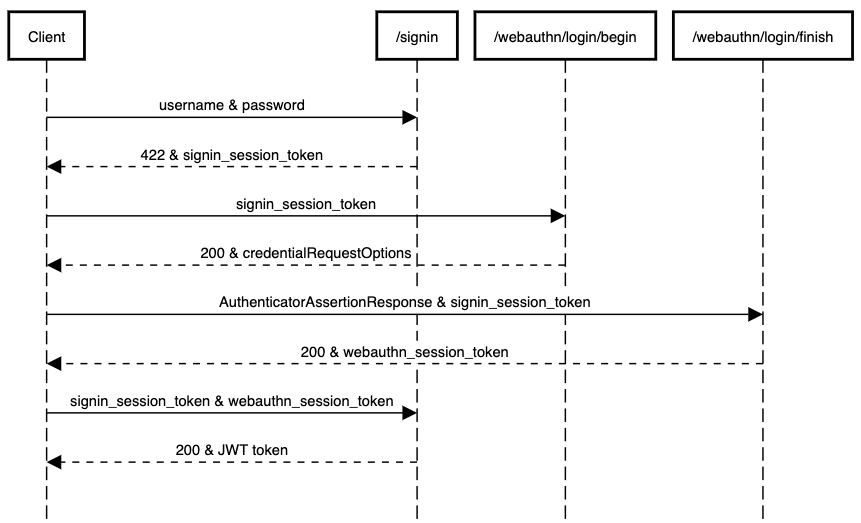
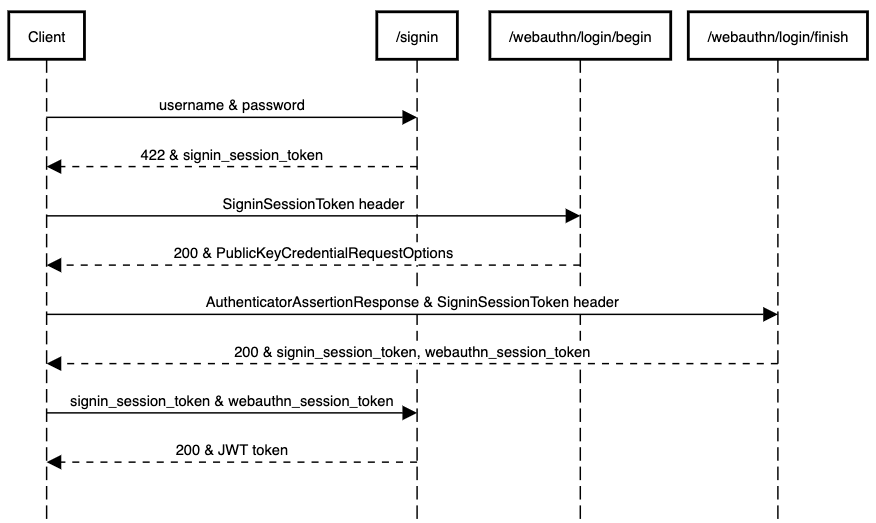
updating documentation

diff --git a/accounts/config/environment.js b/accounts/config/environment.js
@@ -25,7 +25,7 @@ module.exports = function(environment) {
 
   ENV['ember-simple-auth-token'] = {
     serverTokenEndpoint: '/signin',
-    serverTokenRefreshEndpoint: '//refresh',
+    serverTokenRefreshEndpoint: '/refresh',
     tokenPropertyName: 'token', // Key in server response that contains the access token
     headers: {}, // Headers to add to the
     // tokenExpirationInvalidateSession: true, // Enables session invalidation on token expiration
@@ -52,7 +52,7 @@ module.exports = function(environment) {
     // ENV.APP.LOG_VIEW_LOOKUPS = true;
 
     ENV['ember-simple-auth-token'].serverTokenEndpoint = 'http://localhost:8080/signin'
-    ENV['ember-simple-auth-token'].serverTokenRefreshEndpoint = 'http://localhost:8080//refresh'
+    ENV['ember-simple-auth-token'].serverTokenRefreshEndpoint = 'http://localhost:8080/refresh'
     ENV.APP.JSONAPIAdaptetHost = 'http://localhost:8080';
   }
 

diff --git a/accounts/app/services/rest-service.js b/accounts/app/services/rest-service.js
@@ -16,7 +16,7 @@ export default Service.extend({
     if (signin_session_token) {
       settings.headers = {
         'Content-Type': 'application/json',
-        'AuthToken': signin_session_token  // custom header for sending password login auth token
+        'SignInSessionToken': signin_session_token  // custom header for sending password login auth token
       }
     } else {
       settings.headers = {

diff --git a/api/internal/handlers/user.go b/api/internal/handlers/user.go
@@ -186,9 +186,9 @@ func (ah AuthEventHandler) FinishSecondAuth(userID, eventName, message string) {
 	})
 }
 
-func (ah AuthEventHandler) IsWebAuthnAuthTokenValidForUer(userID, webauthnAuthToken string) bool {
+func (ah AuthEventHandler) IsWebAuthnSessionTokenValidForUer(userID, webAuthnSessionToken string) bool {
 	userService := ah.UserService
-	eventID, _ := crypto.Base64Decode(webauthnAuthToken)
+	eventID, _ := crypto.Base64Decode(webAuthnSessionToken)
 	user, dberr := userService.FindUserByAuthEventID(eventID)
 	if dberr != nil {
 		return false
@@ -253,10 +253,13 @@ func getAuthType(c Credentials) AuthType {
 //   **Password + WebAuthn**
 //
 //   This is two factor authentication. User's security settings must have WebAuthn enabled in order for this second
-//   factor authentication to be presented to the user after a successful password authentication. Testing the WebAuthn
-//   is a lot more involved. The webauthn endpoint is tested using the browser with webauthn client javascript calls
-//   that are embedded in UI. Professional API testing tool can be used if it calls browser API natively. This part of
-//   API endpoint is mentioned for the sake of completeness.
+//   factor authentication to be presented to the user after a successful password authentication. Calling WebAuthn
+//   endpoint requires working with browser's <a href="https://developer.mozilla.org/en-US/docs/Web/API/Web_Authentication_API">**WebAuthn API**</a>
+//   That brings a bit of challenge to automated testing. Testing tool can not simply pass in some value to this restful
+//   service endpoint. The tool needs to call browser's WebAuthn API to have the browser initiate a communication
+//   with the user's physical authenticator device. Although it is theoretically possible to emulate the physical authenticator
+//   using <a href="https://github.com/github/SoftU2F/">**software**</a>, there isn't a software authenticator that is suitable
+//   for fully automated testing. Therefore, testing of WebAuthn flow will remain as manual.
 //
 //   <img src="/accounts/assets/webauthn_flow.png" alt="WebAuthn Flow">
 //
@@ -276,7 +279,7 @@ func getAuthType(c Credentials) AuthType {
 //     description: access granted
 //     schema:
 //       type: object
-//       "$ref": "#/definitions/AuthToken"
+//       "$ref": "#/definitions/JWTToken"
 //   '401':
 //     description: access denied
 //     schema:
@@ -309,14 +312,23 @@ func getAuthType(c Credentials) AuthType {
 //           example: MzM4OGNkMWEtNmQyNC00MDQ1LWJmYzctMWJlMzM3ZTk1NDQ5
 // security: []
 // x-codeSamples:
-//   - lang: curl
+//   - lang: curl-password
 //     source: |
 //       curl -X POST \
 //       https://accounts.7onetella.net/signin \
 //       -H 'Content-Type: application/json' \
 //       -d '{
-//	       "username": "user_1604820478030@example.com",
-//	       "password": "password"
+//	       "username": "john.smith@example.com",
+//	       "password": "password1234"
+//       }'
+//   - lang: curl-totp
+//     source: |
+//       curl -X POST \
+//       https://accounts.7onetella.net/signin \
+//       -H 'Content-Type: application/json' \
+//       -d '{
+//         "signin_session_token": "YjcxYmE0MjQtMGY1MS00ZDI0LTk4NDAtYjhiM2IwNzY5ZDNk",
+//         "totp": "592918"
 //       }'
 func Signin(userService UserService, claimKey string, ttl time.Duration) gin.HandlerFunc {
 	return func(c *gin.Context) {
@@ -389,7 +401,7 @@ func Signin(userService UserService, claimKey string, ttl time.Duration) gin.Han
 				auth.AccessDeniedMissingData(user.ID, AuthenticationError, WebAuthnRequired)
 				return
 			}
-			if !auth.IsWebAuthnAuthTokenValidForUer(user.ID, cred.WebauthnAuthToken) {
+			if !auth.IsWebAuthnSessionTokenValidForUer(user.ID, cred.WebAuthnSessionToken) {
 				auth.DenyAccessForUser(user.ID, AuthenticationError, WebauthnAuthFailure)
 				return
 			}
@@ -423,7 +435,7 @@ func Signin(userService UserService, claimKey string, ttl time.Duration) gin.Han
 			return
 		}
 
-		token := AuthToken{
+		token := JWTToken{
 			Token:      tokenString,
 			Expiration: expTime.Unix(),
 		}

diff --git a/api/internal/handlers/jwt.go b/api/internal/handlers/jwt.go
@@ -40,7 +40,7 @@ type Credentials struct {
 
 	TOTP string `json:"totp"`
 
-	WebauthnAuthToken string `json:"webauthn_session_token"`
+	WebAuthnSessionToken string `json:"webauthn_session_token"`
 }
 
 // password_credentials represents user password credentials
@@ -94,13 +94,13 @@ type WebauthnCredentials struct {
 	//
 	// required: true
 	// example: ZDkyZjJkNWMtNGU2Ny00ZGRmLWI2ZGQtOTExNTcyYzIwNWFk
-	WebauthnAuthToken string `json:"webauthn_session_token"`
+	WebauthnSessionToken string `json:"webauthn_session_token"`
 }
 
 // This is JWT Auth Token
 //
-// swagger:model AuthToken
-type AuthToken struct {
+// swagger:model JWTToken
+type JWTToken struct {
 	// jwt token
 	// required: true
 	// example: eyJhbGciOiJIUzI1NiIsInR5cCI6IkpXVCJ9.eyJhdWQiOiI3b25ldGVsbGEiLCJleHAiOjE2MDQ1NTYyMjcsImlhdCI6MTYwNDU1MjYyNywiaXNzIjoiN29uZXRlbGxhIiwic3ViIjoiMDA1ZDBiYzMtN2NmYi00NzkxLTg0ZDktZjFkN2IzMmJiM2YxIn0.kY5BpagojMbkn0T2vnEXYeQ_bRMriDmW6iEG3D7GQQI
@@ -129,7 +129,7 @@ func (c Credentials) IsTOTPCodePresent() bool {
 }
 
 func (c Credentials) IsWebauthnTokenPresent() bool {
-	return len(c.WebauthnAuthToken) > 0
+	return len(c.WebAuthnSessionToken) > 0
 }
 
 // PreflightOptionsHandler handles preflight OPTIONS
@@ -139,7 +139,7 @@ func PreflightOptions() gin.HandlerFunc {
 			w := c.Writer
 			w.Header().Add("Access-Control-Allow-Origin", "*")
 			w.Header().Add("Access-Control-Allow-Methods", "GET, OPTIONS, HEAD, POST, PUT, PATCH, DELETE")
-			w.Header().Add("Access-Control-Allow-Headers", "Accept, Content-Type, Content-Length, Accept-Encoding, X-CSRF-Token, Authorization, AuthToken")
+			w.Header().Add("Access-Control-Allow-Headers", "Accept, Content-Type, Content-Length, Accept-Encoding, X-CSRF-Token, Authorization, SigninSessionToken")
 			w.WriteHeader(http.StatusAccepted)
 			c.Abort()
 			return
@@ -239,7 +239,7 @@ func (a JWTAuth) RefreshToken(service UserService) gin.HandlerFunc {
 		rh := NewRequestHandler(c)
 		rh.WriteCORSHeader()
 
-		var rt AuthToken
+		var rt JWTToken
 		c.ShouldBindJSON(&rt)
 
 		terms := strings.Split(rt.Token, ".")
@@ -268,7 +268,7 @@ func (a JWTAuth) RefreshToken(service UserService) gin.HandlerFunc {
 
 		log.Println("Token refresh successful")
 
-		refreshToken := AuthToken{
+		refreshToken := JWTToken{
 			Token:      tokenString,
 			Expiration: expTime.Unix(),
 		}

diff --git a/api/internal/handlers/webauthn.go b/api/internal/handlers/webauthn.go
@@ -12,6 +12,8 @@ import (
 	"net/http"
 )
 
+const SigninSessionTokenHeader = "SignSessionToken"
+
 func BeginRegistration(service UserService, web *webauthn.WebAuthn) gin.HandlerFunc {
 	return func(c *gin.Context) {
 		rh := NewRequestHandler(c)
@@ -93,8 +95,8 @@ func BeginLogin(service UserService, web *webauthn.WebAuthn) gin.HandlerFunc {
 		rh := NewRequestHandler(c)
 		rh.WriteCORSHeader()
 
-		authToken := c.GetHeader("AuthToken")
-		eventID, _ := Base64Decode(authToken)
+		signinSessionToken := c.GetHeader(SigninSessionTokenHeader)
+		eventID, _ := Base64Decode(signinSessionToken)
 		log.Printf("event id = %s", eventID)
 		user, dberr := service.FindUserByAuthEventID(eventID)
 		if rh.HandleDBError(dberr) {
@@ -144,8 +146,8 @@ func FinishLogin(service UserService, web *webauthn.WebAuthn) gin.HandlerFunc {
 		rh := NewRequestHandler(c)
 		rh.WriteCORSHeader()
 
-		signInSessionAuthToken := c.GetHeader("AuthToken")
-		eventID, _ := Base64Decode(signInSessionAuthToken)
+		signInSessionToken := c.GetHeader(SigninSessionTokenHeader)
+		eventID, _ := Base64Decode(signInSessionToken)
 		user, dberr := service.FindUserByAuthEventID(eventID)
 		if rh.HandleDBError(dberr) {
 			return
@@ -181,7 +183,7 @@ func FinishLogin(service UserService, web *webauthn.WebAuthn) gin.HandlerFunc {
 
 		c.JSON(200, gin.H{
 			"result":                 true,
-			"signin_session_token":   signInSessionAuthToken,
+			"signin_session_token":   signInSessionToken,
 			"webauthn_session_token": Base64Encode(secAuthEvent.ID),
 		})
 	}
